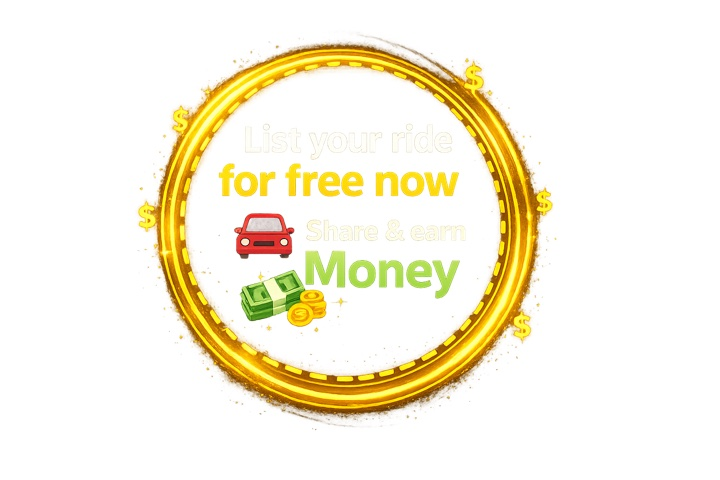
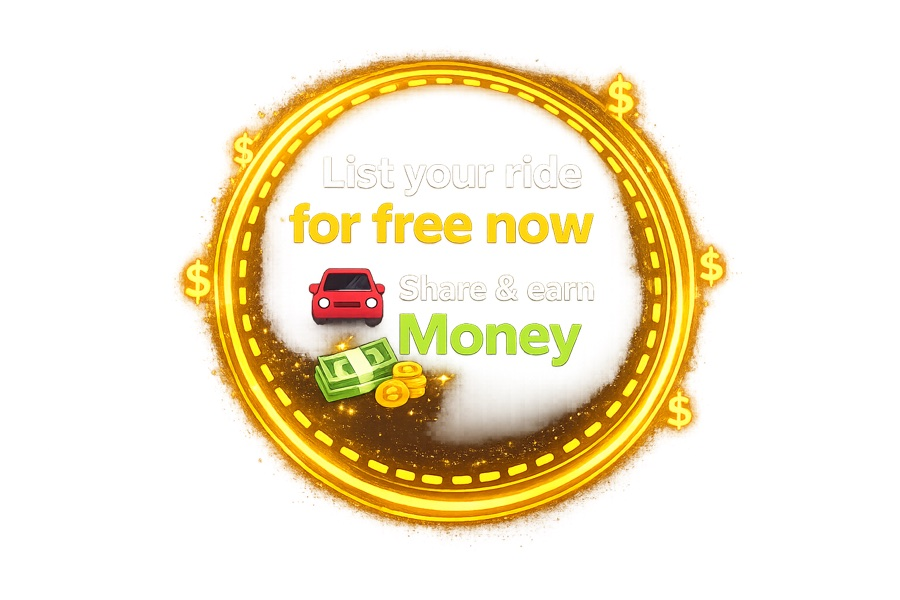
Update ride search artwork

Changed region(s): [[0.1833, 0.0625, 0.825, 0.9062]]

diff --git a/mobile/src/screens/HousingScreen.tsx b/mobile/src/screens/HousingScreen.tsx
@@ -4576,11 +4576,11 @@ const styles = StyleSheet.create({
   rideUtilityText: { color: theme.colors.soft, fontSize: 16, fontWeight: "900" },
   ridePlannerSearchButton: { backgroundColor: theme.colors.blue, borderRadius: theme.radius.pill, minHeight: 58, alignItems: "center", justifyContent: "center", marginTop: 4 },
   ridePlannerSearchText: { color: theme.colors.text, fontSize: 17, fontWeight: "900" },
-  rideSearchLoadingOverlay: { ...StyleSheet.absoluteFillObject, zIndex: 30, backgroundColor: "rgba(8,8,9,0.74)", alignItems: "center", justifyContent: "center", paddingHorizontal: 28 },
-  rideSearchLoadingCard: { width: "100%", maxWidth: 340, paddingHorizontal: 24, paddingVertical: 20, alignItems: "center", gap: 10 },
+  rideSearchLoadingOverlay: { ...StyleSheet.absoluteFillObject, zIndex: 30, backgroundColor: "rgba(8,8,9,0.74)", alignItems: "center", justifyContent: "center", paddingHorizontal: 12 },
+  rideSearchLoadingCard: { width: "100%", maxWidth: 378, paddingHorizontal: 12, paddingVertical: 20, alignItems: "center", gap: 10 },
   rideSearchLoadingTitle: { color: theme.colors.text, ...theme.typography.sectionTitle, marginTop: 4 },
   rideSearchLoadingCopy: { color: theme.colors.muted, ...theme.typography.body, textAlign: "center" },
-  rideSearchLoadingPromo: { width: 118, height: 79, borderRadius: theme.radius.sm, marginTop: 6 },
+  rideSearchLoadingPromo: { width: 354, height: 237, maxWidth: "100%", borderRadius: theme.radius.sm, marginTop: 6 },
   rideChoiceScreen: { flex: 1, backgroundColor: "#111" },
   rideChoiceMap: { flex: 1, minHeight: 320, backgroundColor: "#202632", overflow: "hidden" },
   rideChoiceMapImage: { ...StyleSheet.absoluteFillObject, opacity: 0.94 },
